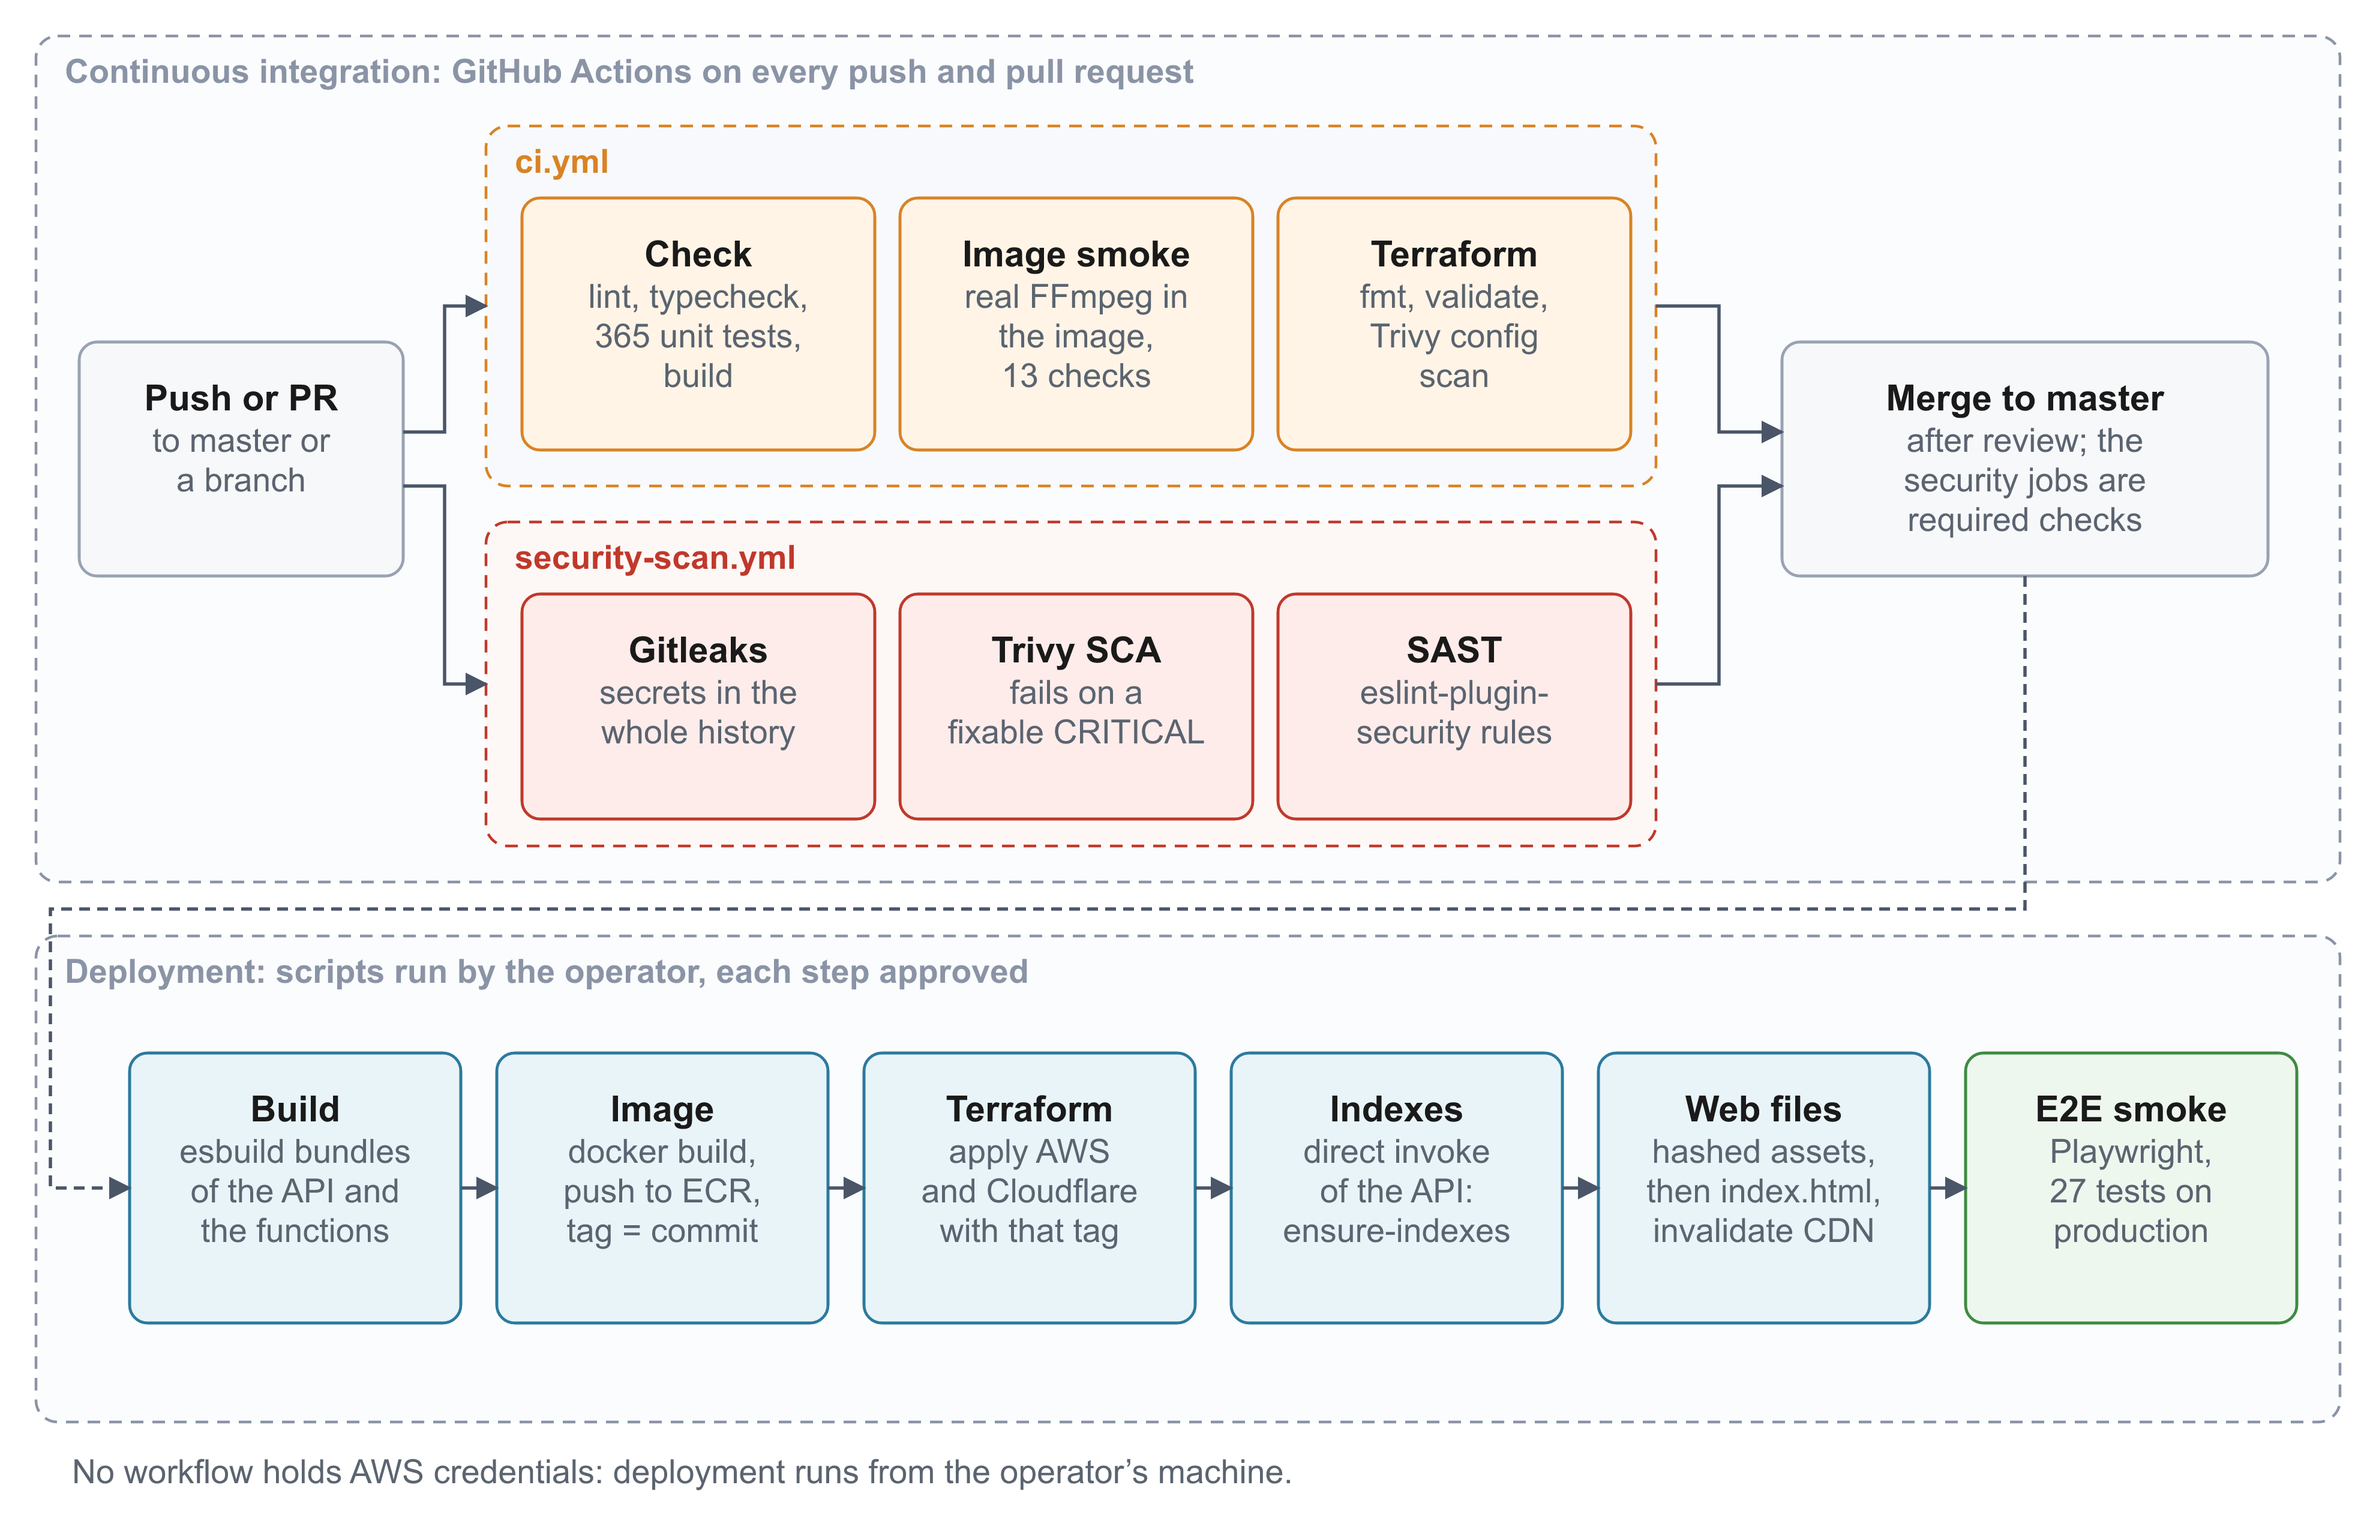
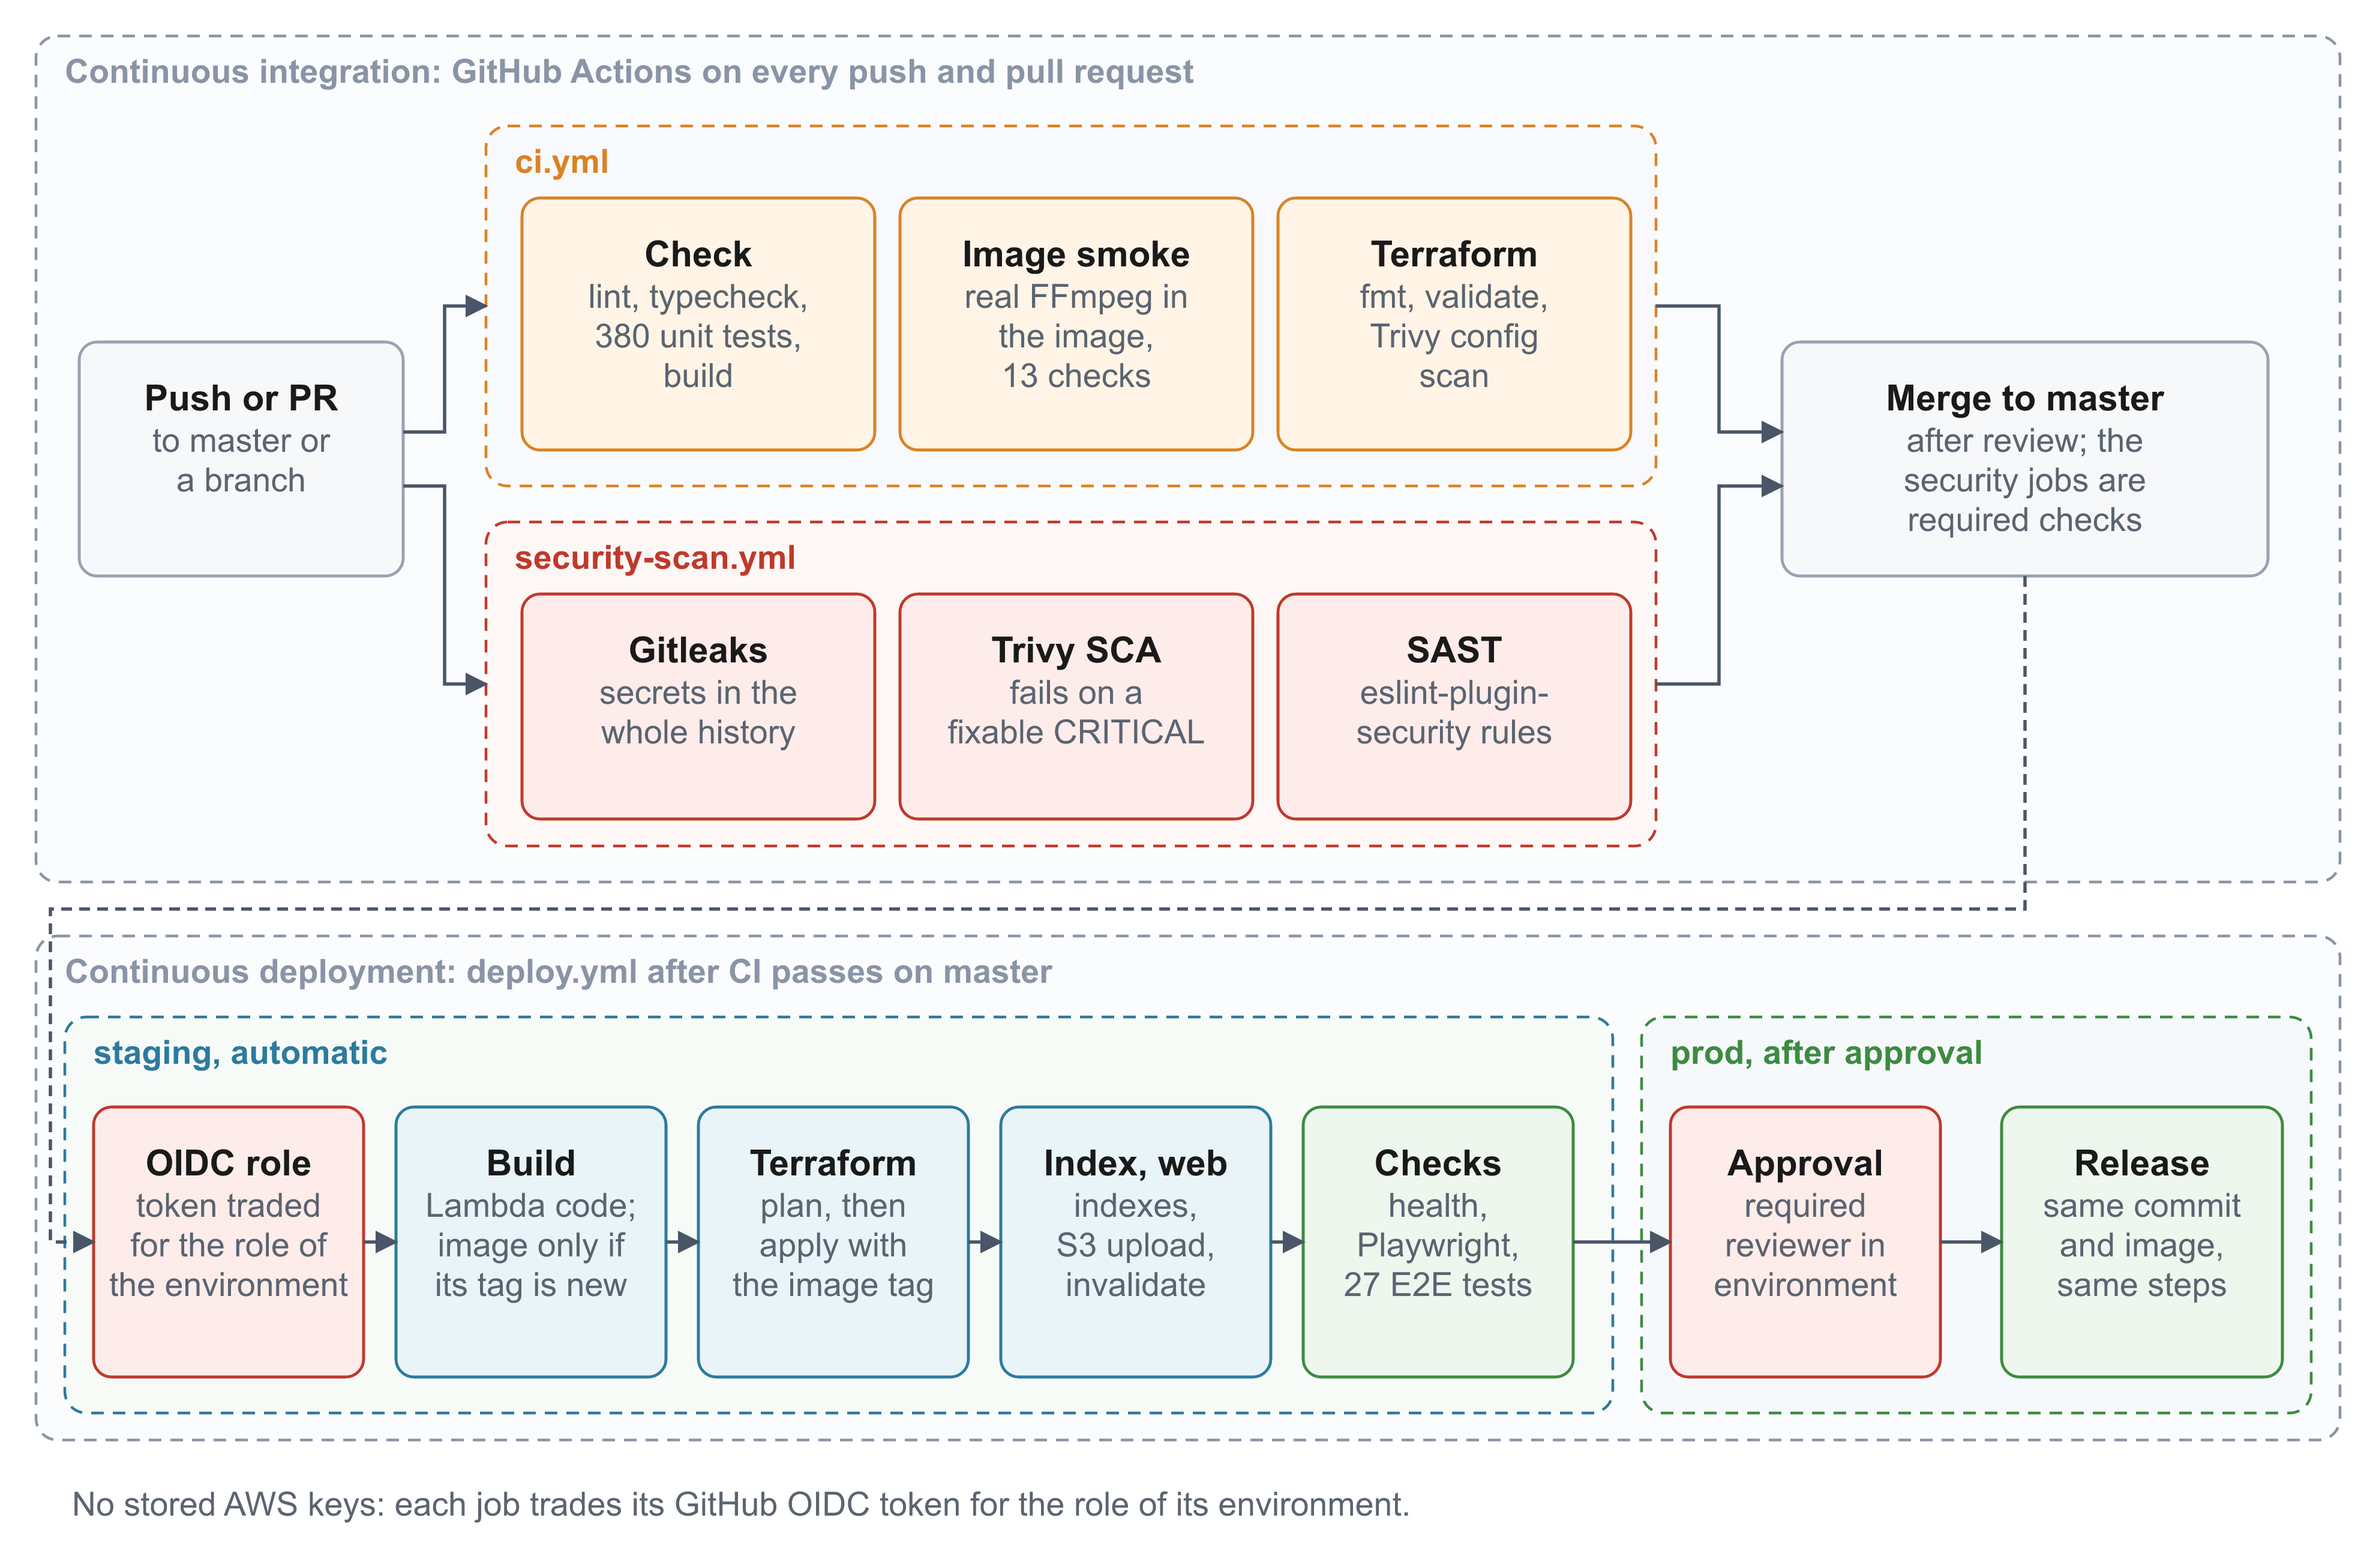
docs(diagrams): redraw the CI/CD figure with the deploy workflow
Lower half: deploy.yml after CI on master, staging automatic, prod after approval, OIDC instead of stored keys. Unit tests 365 -> 380.

diff --git a/docs/diagrams/README.md b/docs/diagrams/README.md
@@ -6,7 +6,7 @@ Thư mục này chứa các sơ đồ dùng cho báo cáo đồ án. Ảnh PNG x
 |---|---|---|
 | `01-architecture-overview.png` | Kiến trúc tổng thể, ranh giới triển khai và luồng dữ liệu đánh số | 4.1 |
 | `02-transcoding-sequence.png` | Sequence Diagram quy trình chuyển mã Event-Driven | 4.2 |
-| `03-cicd-pipeline.png` | Bảy workflow CI/CD, đường dẫn kích hoạt và cổng chất lượng hai tầng | 5.1 |
+| `03-cicd-pipeline.png` | CI (ci.yml, security-scan.yml) và CD (deploy.yml): staging tự động, prod sau khi duyệt, OIDC | 5.1 |
 | `04-database-erd.png` | ERD của MongoDB (User, Video, Comment) | 4.3 |
 | `05-use-case.png` | Sơ đồ Use Case của người dùng nền tảng: 3 tác nhân, 17 use case, ký hiệu UML chuẩn | 3.1 |
 | `06-hls-abr.png` | Các tệp HLS sinh ra từ một video nguồn và thứ tự player tải | 2.2 |
